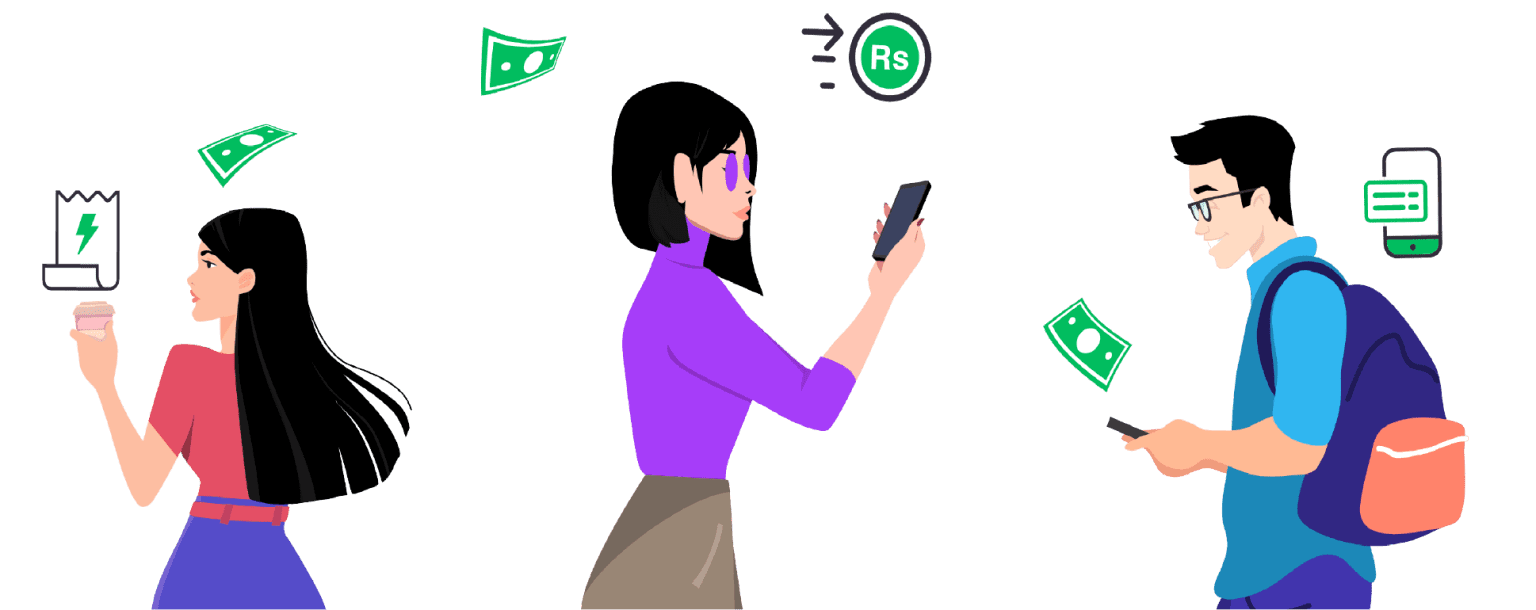
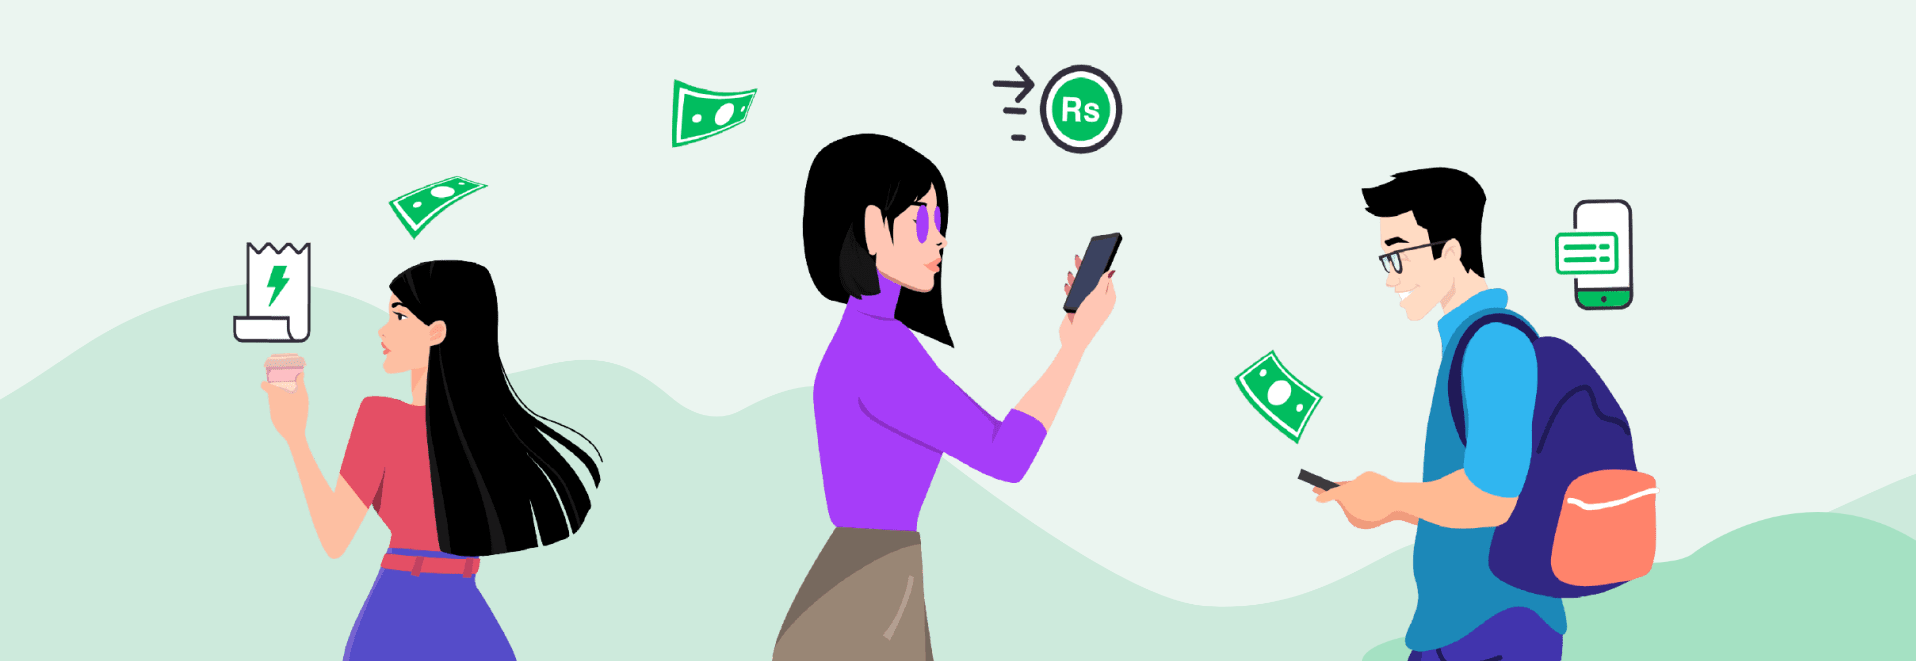
Add files via upload

diff --git a/Project1/Index.html b/Project1/Index.html
@@ -15,26 +15,75 @@
 
     
 
+    
+
             <!-----3rd section start------->
             <div class="grid-container">
                 <div class="grid-item">
-                    <img src="mobile2.png" height="650px" width="600px">
+                    <img src="mobile2.png" class="image1" height="650px" width="600px">
                 </div>
                 <div class="grid-item">
                     <div>
-                        <img src="easypaisa.png" alt="">
+                        <img src="easypaisa.png" class="easypaisa2" alt="">
                     </div>
                     <p>
-                        “The sole purpose of technology is to bring comfort to human lives. We believe matters of money should be no different.” 
+                        “The sole purpose of technology is to bring comfort to human<br> 
+                        lives.We believe matters of money should be no different.” 
                     </p>
                     <h1 >#thehumantouch</h1>
-                    <iframe width="560" height="315" src="https://www.youtube.com/embed/6FYo19oLBzc" title="YouTube video player" frameborder="0" allow="accelerometer; autoplay; clipboard-write; encrypted-media; gyroscope; picture-in-picture; web-share" allowfullscreen></iframe>
+                    <iframe width="580" height="410" src="https://www.youtube.com/embed/6FYo19oLBzc" title="YouTube video player" frameborder="0" allow="accelerometer; autoplay; clipboard-write; encrypted-media; gyroscope; picture-in-picture; web-share" allowfullscreen></iframe>
                 </div>
             </div>
 
-
-
             <!-----3rd section end------->
+
+             <!-----4th section start------->
+
+             <div>
+                <div class="section4">
+                    <h1>Welcome to Pakistan’s favorite way to pay!</h1>
+                    <p>
+                        easypaisa is more than just money transfer. With the latest easypaisa app you can order your<br> 
+                        owneasypaisa debit card. You can also recharge your phone, pay utility bills, send gifts, win rewards,<br> 
+                        cashbacksand enjoy discounts on partner restaurants and shopping
+                    </p>
+
+                    <div class="image-1">
+                        <img src="image1.png" class="" alt="">
+                    </div>
+                </div>
+             </div>
+              <!-----4th section end------->
+
+              <!-----5th section end------->
+
+              <div class="grid-container2">
+                <div class="grid-item2">
+                    <img src="image2.png" class="image2" height="450px" width="500px">
+                </div>
+                <div class="grid-item2">
+                    <h1 >Money Transfer</h1>
+                    <p>
+                        Humans have never had so many ways to transfer money - that too, all in one place. With<br> 
+                        easypaisa, you can send money to any one you want, on any network, on any number!  
+                    </p>
+                    
+                    <button class="btn-learn">Learn More</button>
+                    <div class="icons">
+                        <img src="icon1.png">
+                        <img src="icon2.png">
+                        <img src="icon3.png">
+                        <img src="icon4.png">
+                        <img src="icon5.png">
+                        <img src="icon6.png">
+                    </div>   
+                </div>
+
+                
+            </div>
+
+
+              <!-----5th section end------->
 
 
 

diff --git a/Project1/style.css b/Project1/style.css
@@ -3,29 +3,129 @@
     margin: 0;
     padding: 0;
     box-sizing: border-box;
+    background-color: #ebf5f0;
+    background-size: 100%;
 }
 
 
+/**********3rd Section start************/
 
 .grid-container{
    display: grid;
    grid-template-columns: auto auto;
    padding: 0px;
-}
+   
+} 
 
 .grid-item{
     border: none;
     text-align: left;
+
 }
 
-p {
-    display: block;
-    margin-block-start: 16px;
-    margin-block-end: 16px;
-    margin-inline-start: 0px;
-    margin-inline-end: 0px;
+.image1{
+    margin-top: 250px;
+    padding-bottom: 10px;
+}
+
+.easypaisa2{
+    margin-top: 80px;
+}
+
+.grid-item iframe{
+    margin-top: 50px;
+    padding: 0px;
+}
+
+.grid-item p {
+    margin-top: 50px;
+    padding: 0px;
+    font-size: larger;
 }
 
 .grid-container h1{
     color: #00BC5F;
+    font-size: 40px;
+    margin-top: 50px;
+    padding: 0px;
+}
+
+
+/**********3rd Section end************/
+
+
+
+
+/**********4th Section start************/
+
+.section4{
+    display: block;
+    text-align: center;
+    margin-top: 100px;
+    padding-top: 20px;
+   
+}
+
+.section4 p{
+    margin-bottom: 40px;
+    font-size: 20px;
+    padding-top: 20px;
+
+}
+
+.image-1{
+    display: flex;
+    height: 435px;
+    width: auto;
+    border: none;
+    margin-bottom: 200px;
+
+}
+
+
+/**********4th Section end************/
+
+
+
+/**********5th Section start************/
+
+.grid-container2{
+    display: grid;
+    grid-template-columns: auto auto;
+    padding: 0px;
+
+ } 
+
+ .grid-item2{
+    border: none;
+    text-align: left;
+    padding: 40px;
+
+}
+
+.grid-item2 h1{
+   margin-bottom: 40px;
+}
+
+.grid-item2 p{
+    font-size: 18px;
+ }
+
+.btn-learn{
+    margin-top: 40px;
+    padding: 20px;
+    background-color: white;
+    border-radius: 50px;
+    border: none;
+    font-size: 18px;
+    width: 150px;
+}
+
+.icons{
+    display: flex;
+    height: 100px;
+    justify-content: space-between;
+    margin-top: 40px;
+
+    
 }
